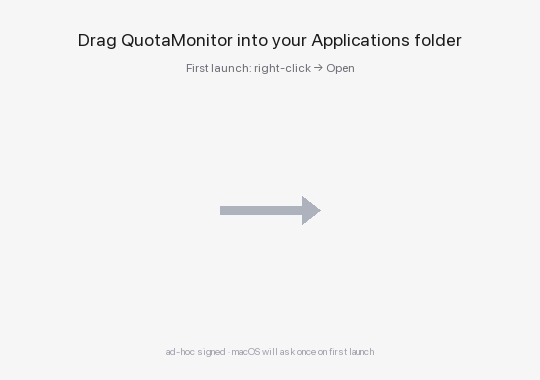
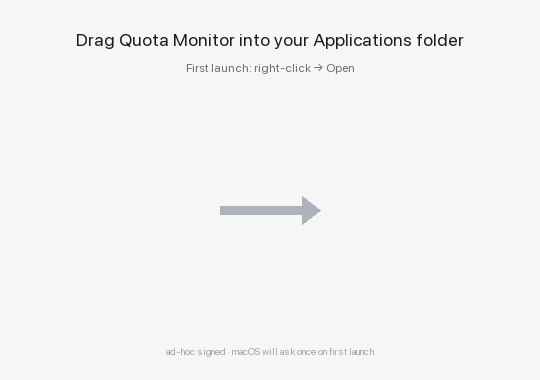
fix: drive DMG installer background from Branding
The installer-window backdrop hardcoded "Drag QuotaMonitor into your
Applications folder", so a rebranded build (changing only Branding.swift)
shipped the new DMG filename/volume title but an installer that still told
users to drag QuotaMonitor.

Both background generators now derive the brand display name from
appDisplayName in Branding.swift (or an explicit CLI arg):
- tools/make-dmg-bg.swift  <out.png> [brand]
- scripts/make-dmg-bg.py   [brand] [out.png]

And both DMG pipelines regenerate the backdrop from the current branding at
build time, falling back to the committed Resources/dmg-background.png when
the generator's toolchain (swift / Pillow) is unavailable:
- tools/make-dmg.sh  (release pipeline, via swift)
- make-dmg.sh        (legacy path, via Pillow)

Regenerated the committed fallback PNG so it reads "Quota Monitor".

Changed region(s): [[0.1185, 0.0868, 0.8593, 0.1447]]

diff --git a/tools/make-dmg-bg.swift b/tools/make-dmg-bg.swift
@@ -1,16 +1,21 @@
 #!/usr/bin/env swift
 // Render the DMG installer background.
 //
-// Usage: tools/make-dmg-bg.swift <output-png-path>
+// Usage: tools/make-dmg-bg.swift <output-png-path> [brand-display-name]
+//
+// The optional brand display name fills the "Drag <name> into your
+// Applications folder" title. When omitted it is read from the single source
+// of truth in QuotaMonitor/Core/Branding.swift (falling back to
+// "Quota Monitor"), so renaming the app there flows through to the installer
+// window automatically. make-dmg.sh regenerates this PNG from the current
+// branding on every build; the committed Resources/dmg-background.png is just
+// a fallback for environments without `swift`.
 //
 // Output is a 540×380 PNG showing:
 //   - Drop-shadow placeholder for the app icon (left)
 //   - Big arrow pointing right
 //   - Drop-shadow placeholder for the /Applications folder (right)
 //   - One-line instruction at the top
-//
-// Re-run if you change wording or layout. The generated PNG is committed to
-// Resources/dmg-background.png; we don't regenerate it during every release.
 
 import AppKit
 import CoreGraphics
@@ -22,6 +27,33 @@ guard CommandLine.arguments.count >= 2 else {
     exit(2)
 }
 let outPath = CommandLine.arguments[1]
+
+/// Resolve the brand display name used in the installer title.
+/// Precedence: explicit CLI arg → `appDisplayName` in Branding.swift →
+/// the "Quota Monitor" default. Keeps this generator in lockstep with the
+/// rest of the build, which reads the same source of truth.
+func resolveBrandDisplayName() -> String {
+    if CommandLine.arguments.count >= 3 {
+        let arg = CommandLine.arguments[2].trimmingCharacters(in: .whitespaces)
+        if !arg.isEmpty { return arg }
+    }
+    // Branding.swift lives two levels up from this script (tools/ → repo root).
+    let brandingURL = URL(fileURLWithPath: #filePath)
+        .deletingLastPathComponent()   // tools/
+        .deletingLastPathComponent()   // repo root
+        .appendingPathComponent("QuotaMonitor/Core/Branding.swift")
+    if let text = try? String(contentsOf: brandingURL, encoding: .utf8),
+       let r = text.range(of: #"appDisplayName\s*=\s*""#,
+                          options: .regularExpression) {
+        let after = text[r.upperBound...]
+        if let end = after.firstIndex(of: "\"") {
+            let name = String(after[..<end]).trimmingCharacters(in: .whitespaces)
+            if !name.isEmpty { return name }
+        }
+    }
+    return "Quota Monitor"
+}
+let brandDisplayName = resolveBrandDisplayName()
 
 let width: CGFloat = 540
 let height: CGFloat = 380
@@ -49,9 +81,9 @@ ctx.drawLinearGradient(gradient,
 
 // ---- title text (top) -----------------------------------------------------
 
-// NOTE: when changing the app brand (QuotaMonitor/Core/Branding.swift),
-// update this title string and re-run this script to regenerate the PNG.
-let title = "Drag QuotaMonitor into your Applications folder"
+// Driven by Branding.swift (or the optional CLI arg) so the installer
+// instruction matches a rebranded DMG filename / volume title.
+let title = "Drag \(brandDisplayName) into your Applications folder"
 let titleAttrs: [NSAttributedString.Key: Any] = [
     .font: NSFont.systemFont(ofSize: 16, weight: .medium),
     .foregroundColor: NSColor(white: 0.18, alpha: 1.0)

diff --git a/scripts/make-dmg-bg.py b/scripts/make-dmg-bg.py
@@ -1,11 +1,41 @@
 #!/usr/bin/env python3
-"""Generate Resources/dmg-background.png — the backdrop shown in the
-Finder window when the DMG is mounted. Two icon slots (app on left,
-Applications folder on right) are positioned by AppleScript in
-make-dmg.sh; this image draws the labels and an arrow between them."""
+"""Generate the DMG backdrop shown in the Finder window when the DMG is
+mounted. Two icon slots (app on left, Applications folder on right) are
+positioned by AppleScript in make-dmg.sh; this image draws the labels and
+an arrow between them.
+
+Usage: scripts/make-dmg-bg.py [brand-display-name] [output-path]
+
+The installer title ("Drag <name> into your Applications folder") is driven
+by the brand display name so a rebrand flows through automatically:
+an optional first argument overrides it, otherwise it is read from
+``appDisplayName`` in QuotaMonitor/Core/Branding.swift (the single source of
+truth), falling back to "Quota Monitor". The second argument overrides the
+output path (default Resources/dmg-background.png)."""
+
+import re
+import sys
+from pathlib import Path
 
 from PIL import Image, ImageDraw, ImageFont
-from pathlib import Path
+
+ROOT = Path(__file__).resolve().parent.parent
+
+
+def brand_display_name() -> str:
+    """argv[1] override → appDisplayName in Branding.swift → default."""
+    if len(sys.argv) >= 2 and sys.argv[1].strip():
+        return sys.argv[1].strip()
+    branding = ROOT / "QuotaMonitor" / "Core" / "Branding.swift"
+    try:
+        text = branding.read_text(encoding="utf-8")
+    except OSError:
+        return "Quota Monitor"
+    m = re.search(r'appDisplayName\s*=\s*"([^"]+)"', text)
+    return m.group(1).strip() if m else "Quota Monitor"
+
+
+BRAND = brand_display_name()
 
 W, H = 540, 380
 BG = (246, 246, 247, 255)
@@ -26,7 +56,7 @@ def center_text(text, y, font, fill):
     w = d.textlength(text, font=font)
     d.text(((W - w) / 2, y), text, font=font, fill=fill)
 
-center_text("Drag QuotaMonitor into your Applications folder", 28, title_font, INK)
+center_text(f"Drag {BRAND} into your Applications folder", 28, title_font, INK)
 center_text("First launch: right-click → Open", 60, sub_font, DIM)
 
 # Arrow centered between the two icon slots (icons sit at y≈220 in
@@ -37,6 +67,7 @@ d.polygon([(ax1 - 18, ay - 14), (ax1, ay), (ax1 - 18, ay + 14)], fill=ARROW)
 
 center_text("ad-hoc signed · macOS will ask once on first launch", 345, foot_font, FAINT)
 
-out = Path(__file__).resolve().parent.parent / "Resources" / "dmg-background.png"
+out = (Path(sys.argv[2]).resolve() if len(sys.argv) >= 3
+       else ROOT / "Resources" / "dmg-background.png")
 img.save(out, "PNG")
 print(f"wrote {out} ({W}x{H})")